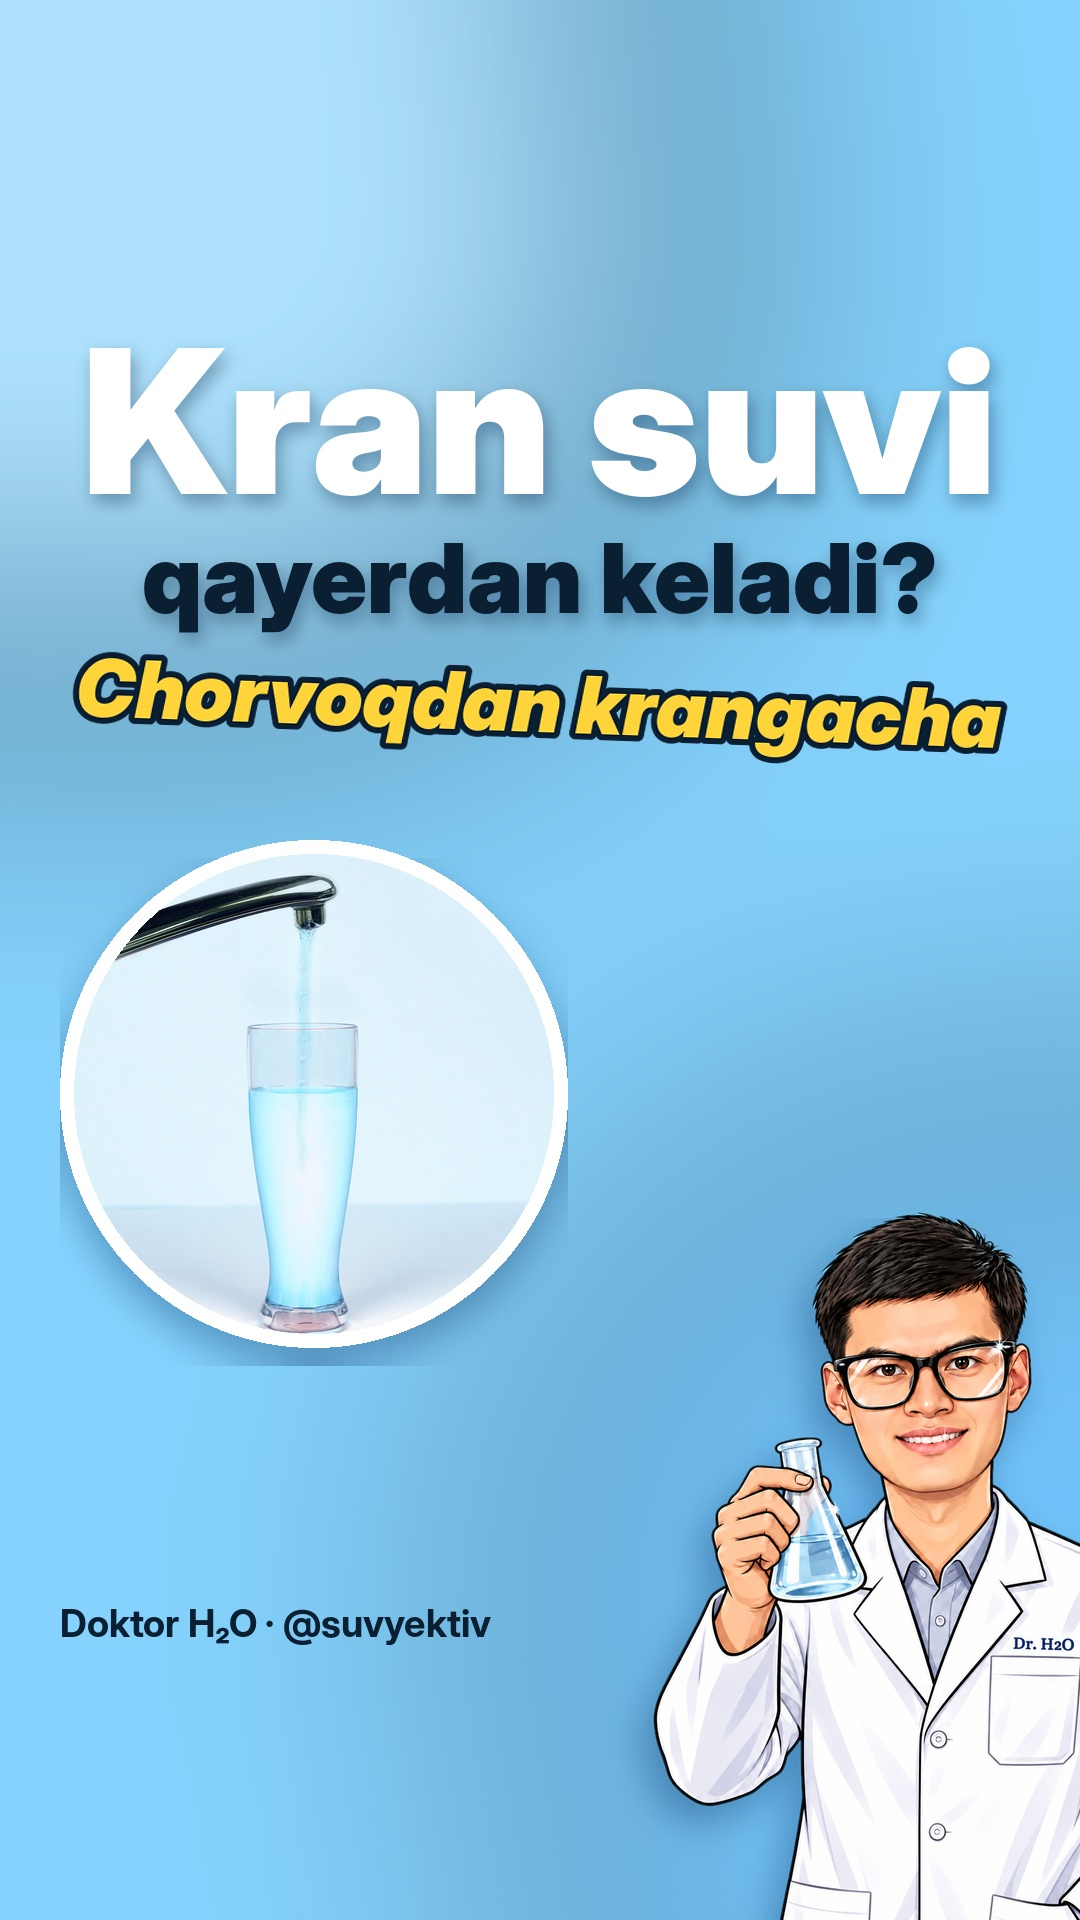
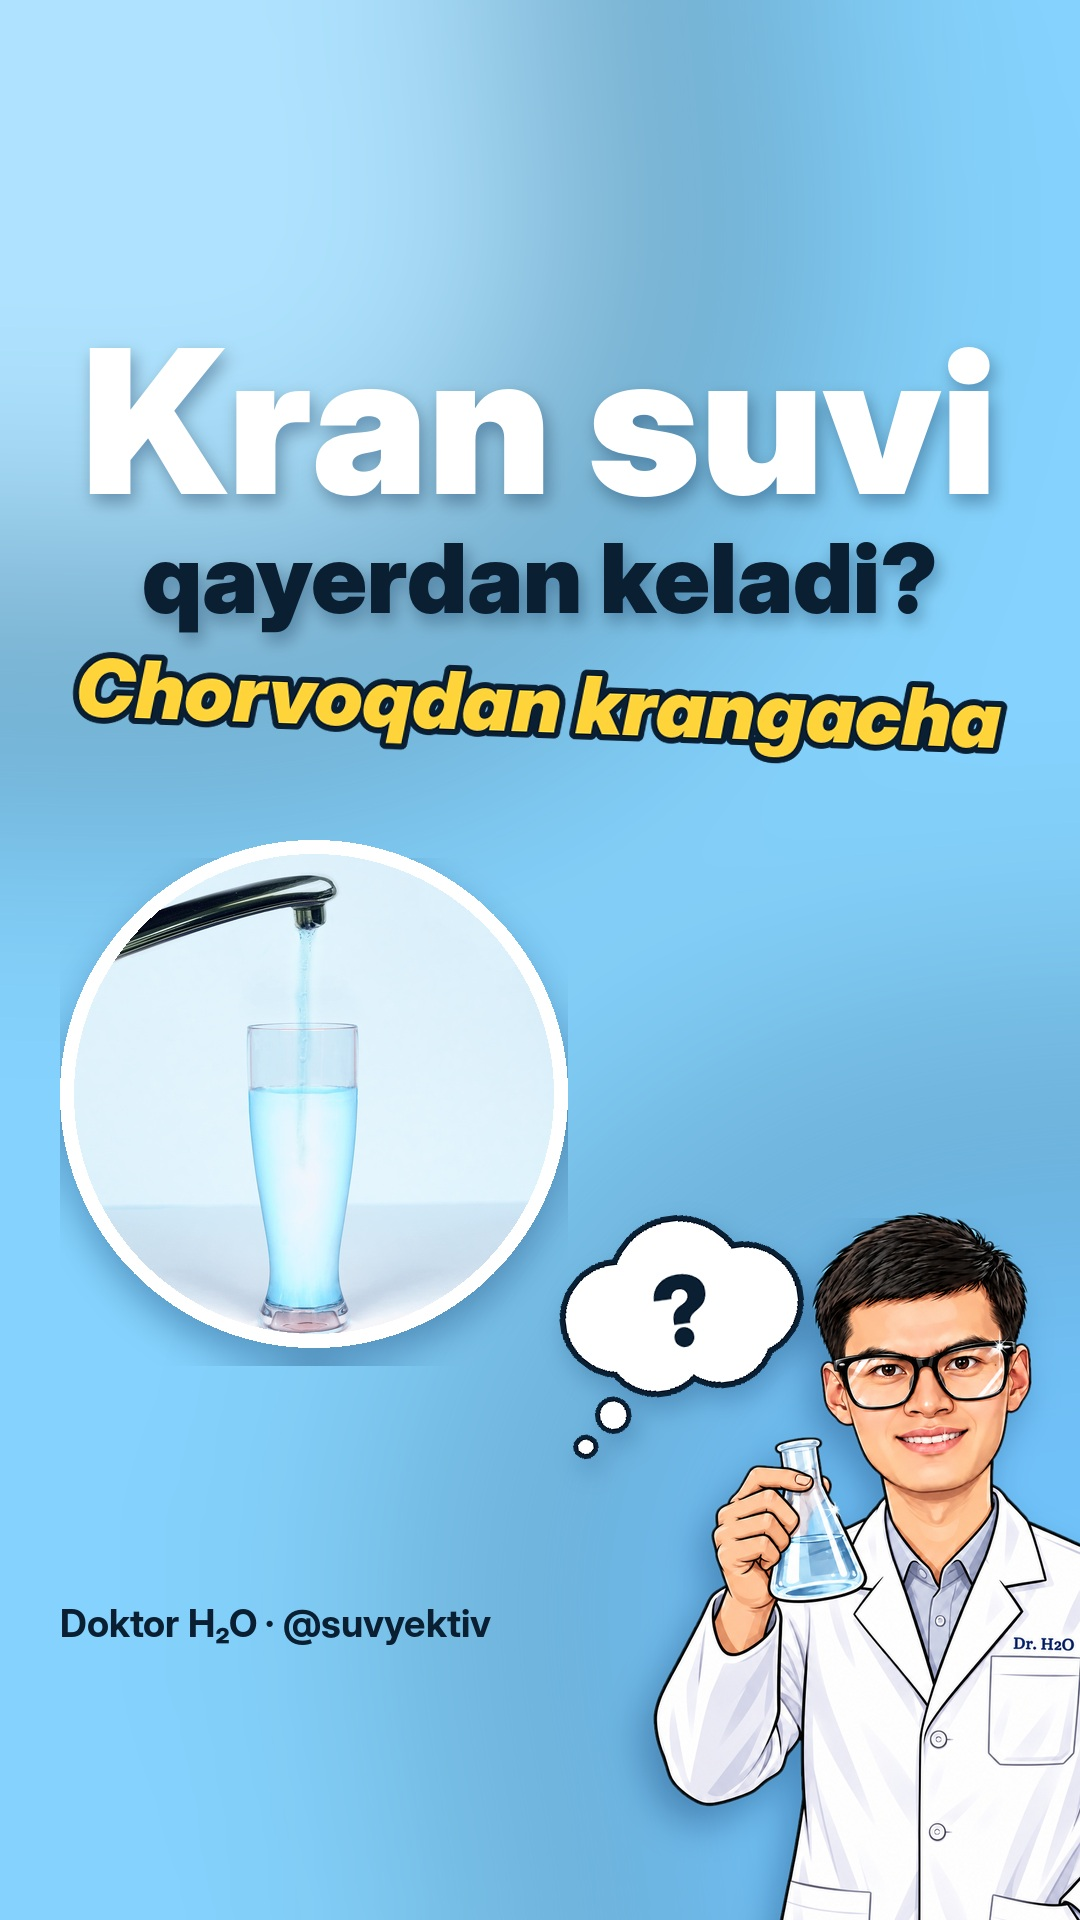
Upcoming covers: thinking / amazed / puzzled moods next to the mascot
Claude-Session: https://claude.ai/code/session_011HDZ5Uv6NChoVbnSnix7oL

Changed region(s): [[0.5194, 0.625, 0.7639, 0.75], [0.5194, 0.75, 0.55, 0.7812]]

diff --git a/tools/covers/next_covers.py b/tools/covers/next_covers.py
@@ -54,6 +54,44 @@ def card(path, w, h, angle=-3, b=14):
 def handle(im, x, y, anchor="la"):
     text(im, x, y, "Doktor H₂O · @suvyektiv", fn("Bold", 38), NAVY, anchor, shadow=False)
 
+
+RED = (235, 72, 72)
+def emote(im, kind, m, mx, my, dy=.45):
+    """Mood next to the mascot's head: think (thought cloud + ?), wow (burst + ! + sparkles), huh (bubble + ?!)."""
+    hx0, hx1, hy0, hy1 = mx + .34 * m.width, mx + .63 * m.width, my + .02 * m.height, my + .30 * m.height
+    right = (hx0 + hx1) / 2 < W / 2            # mascot on the left -> mood goes to its right
+    s = int(m.height * .26); lay = Image.new("RGBA", (int(s * 1.6), int(s * 1.5))); d = ImageDraw.Draw(lay)
+    cx, cy = lay.width / 2, lay.height * .42
+    if kind == "think":
+        for dx, dy, r in [(-.32, .02, .30), (0, -.1, .36), (.32, .02, .30), (-.15, .16, .28), (.18, .16, .28)]:
+            d.ellipse([cx + dx * s - r * s, cy + dy * s - r * s, cx + dx * s + r * s, cy + dy * s + r * s], fill=WHITE + (255,), outline=NAVY + (255,), width=6)
+        for dx, dy, r in [(-.32, .02, .30), (0, -.1, .36), (.32, .02, .30), (-.15, .16, .28), (.18, .16, .28)]:
+            d.ellipse([cx + dx * s - r * s + 6, cy + dy * s - r * s + 6, cx + dx * s + r * s - 6, cy + dy * s + r * s - 6], fill=WHITE + (255,))
+        d.text((cx, cy + s * .02), "?", font=fn("Black", int(s * .5)), fill=NAVY + (255,), anchor="mm")
+        tx = -1 if right else 1                # little trailing bubbles toward the head
+        for k, r in enumerate([.09, .06]):
+            x0 = cx - tx * s * (.42 + .16 * k); y0 = cy + s * (.5 + .14 * k)
+            d.ellipse([x0 - r * s, y0 - r * s, x0 + r * s, y0 + r * s], fill=WHITE + (255,), outline=NAVY + (255,), width=5)
+    elif kind == "wow":
+        import math
+        pts = [(cx + (s * (.55 if i % 2 == 0 else .36)) * math.cos(math.pi * i / 8), cy + (s * (.55 if i % 2 == 0 else .36)) * math.sin(math.pi * i / 8)) for i in range(16)]
+        d.polygon(pts, fill=YEL + (255,), outline=NAVY + (255,), width=6)
+        d.text((cx, cy), "!", font=fn("Black", int(s * .6)), fill=NAVY + (255,), anchor="mm")
+        for dx, dy, r in [(.72, -.45, .09), (-.7, -.3, .07), (.6, .5, .06)]:
+            x0, y0 = cx + dx * s, cy + dy * s
+            d.polygon([(x0, y0 - r * s * 2), (x0 + r * s * .5, y0 - r * s * .5), (x0 + r * s * 2, y0), (x0 + r * s * .5, y0 + r * s * .5), (x0, y0 + r * s * 2), (x0 - r * s * .5, y0 + r * s * .5), (x0 - r * s * 2, y0), (x0 - r * s * .5, y0 - r * s * .5)], fill=WHITE + (255,))
+    elif kind == "huh":
+        tx = -1 if right else 1
+        d.polygon([(cx - tx * s * .28, cy + s * .2), (cx - tx * s * .5, cy + s * .62), (cx - tx * s * .02, cy + s * .2)], fill=WHITE + (255,), outline=NAVY + (255,), width=6)
+        d.rounded_rectangle([cx - s * .55, cy - s * .38, cx + s * .55, cy + s * .34], s * .2, fill=WHITE + (255,), outline=NAVY + (255,), width=6)
+        d.polygon([(cx - tx * s * .27, cy + s * .3), (cx - tx * s * .04, cy + s * .3), (cx - tx * s * .2, cy + s * .4)], fill=WHITE + (255,))
+        d.text((cx - s * .14, cy - s * .02), "?", font=fn("Black", int(s * .5)), fill=NAVY + (255,), anchor="mm")
+        d.text((cx + s * .18, cy - s * .02), "!", font=fn("Black", int(s * .5)), fill=RED + (255,), anchor="mm")
+    lay = lay.rotate(-8 if right else 8, resample=Image.BICUBIC, expand=True)
+    x = int(hx1 - lay.width * .15) if right else int(hx0 - lay.width * .85)
+    y = int(hy0 - lay.height * dy)
+    shadow_paste(im, lay, x, y, k=.25, blur=12, off=(6, 12))
+
 def save(im, slug): im.convert("RGB").save(f"{OUT}/cover_{slug}.jpg", quality=94); print(slug)
 
 # 1) 24.10 suv sarfi — BIG NUMBER, mascot bottom-LEFT, photo bottom-right
@@ -61,17 +99,17 @@ im = base()
 text(im, 60, 280, "Suv sarfi bo'yicha", fn("Black", 96), NAVY)
 text(im, 40, 380, "4-o'rin", fit("4-o'rin", 1000, 300), WHITE)
 tilt(im, "O'zbekiston dunyoda", 50, 720, 96, angle=3)
-c = card(f"{PH}/big_suv-sarfi.jpg", 500, 380, angle=4); shadow_paste(im, c, W - c.width - 20, 930)
-m = mascot(900); shadow_paste(im, m, -230, H - m.height + 60)
+c = card(f"{PH}/big_suv-sarfi.jpg", 500, 380, angle=4); shadow_paste(im, c, W - c.width - 20, 1120)
+m = mascot(900); mx, my = -230, H - m.height + 60; shadow_paste(im, m, mx, my); emote(im, "wow", m, mx, my)
 handle(im, W - 60, 1600, "ra"); save(im, "suv-sarfi")
 
 # 2) 27.10 2050 — FULL-WIDTH photo band on top, text under it, mascot bottom-RIGHT
 im = base()
-c = card(f"{PH}/big_2050.jpg", 1000, 430, angle=0); shadow_paste(im, c, 26, 250)
-text(im, 60, 770, "2050 yilga kelib", fn("Black", 96), NAVY)
-text(im, 52, 880, "5 barobar", fit("5 barobar", 960, 210), WHITE)
-tilt(im, "suv taqchilligi", 50, 1110, 100, angle=-3)
-m = mascot(820); shadow_paste(im, m, W - m.width + 230, H - m.height + 40)
+c = card(f"{PH}/big_2050.jpg", 1000, 380, angle=0); shadow_paste(im, c, 26, 250)
+text(im, 60, 700, "2050 yilga kelib", fn("Black", 96), NAVY)
+text(im, 52, 805, "5 barobar", fit("5 barobar", 960, 210), WHITE)
+tilt(im, "suv taqchilligi", 50, 1030, 100, angle=-3)
+m = mascot(760); mx, my = W - m.width + 230, H - m.height + 40; shadow_paste(im, m, mx, my); emote(im, "huh", m, mx, my, dy=.05)
 handle(im, 60, 1600); save(im, "2050")
 
 # 3) 29.10 Salar — mascot LEFT big, text RIGHT-aligned, photo tilted under text
@@ -82,7 +120,7 @@ f3 = fit("Nega?", 900, 100, "BlackItalic")
 l = Image.new("RGBA", (1000, 200)); ImageDraw.Draw(l).text((20, 20), "Nega?", font=f3, fill=YEL + (255,), stroke_width=6, stroke_fill=NAVY + (255,))
 l = l.crop(l.getbbox()).rotate(-3, resample=Image.BICUBIC, expand=True); im.alpha_composite(l, (W - 50 - l.width, 610))
 c = card(f"{PH}/big_salar.jpg", 560, 400, angle=4); shadow_paste(im, c, W - c.width - 30, 820)
-m = mascot(1000, flip=False); shadow_paste(im, m, -250, H - m.height + 60)
+m = mascot(1000, flip=False); mx, my = -250, H - m.height + 60; shadow_paste(im, m, mx, my); emote(im, "think", m, mx, my)
 handle(im, W - 60, 1600, "ra"); save(im, "salar")
 
 # 4) 03.11 kran suvi — CENTRED text, round photo in the middle, small mascot bottom-centre
@@ -95,7 +133,7 @@ circ = Image.new("RGBA", (d + 28, d + 28)); ImageDraw.Draw(circ).ellipse([0, 0, 
 mk = Image.new("L", (d, d), 0); ImageDraw.Draw(mk).ellipse([0, 0, d - 1, d - 1], fill=255); circ.paste(ph, (14, 14), mk)
 tilt(im, "Chorvoqdan krangacha", W // 2, 640, 84, angle=-2, anchor_center=True)
 shadow_paste(im, circ, 60, 840, off=(0, 18))
-m = mascot(760); shadow_paste(im, m, W - m.width + 230, H - m.height + 40)
+m = mascot(760); mx, my = W - m.width + 230, H - m.height + 40; shadow_paste(im, m, mx, my); emote(im, "think", m, mx, my)
 handle(im, 60, 1600); save(im, "kran")
 
 # 5) 05.11 layfhak — photo LEFT tall card, big counter on the right, mascot bottom-right small
@@ -104,7 +142,7 @@ text(im, 60, 270, "5 ta odat bilan", fn("Black", 96), NAVY)
 text(im, 52, 380, "26 000 litr", fit("26 000 litr", 980, 190), WHITE)
 tilt(im, "yiliga tejaysiz", 50, 590, 100, angle=3)
 c = card(f"{PH}/big_layfhak.jpg", 420, 560, angle=-4); shadow_paste(im, c, 40, 800)
-m = mascot(900); shadow_paste(im, m, W - m.width + 260, H - m.height + 60)
+m = mascot(900); mx, my = W - m.width + 260, H - m.height + 60; shadow_paste(im, m, mx, my); emote(im, "wow", m, mx, my, dy=.15)
 handle(im, 60, 1600); save(im, "layfhak")
 
 # 6) 07.11 butilka — photo band TOP, number HUGE centre, mascot bottom-LEFT (flipped)
@@ -115,5 +153,5 @@ text(im, W - 50, 800, "240 000", fit("240 000", 980, 230), WHITE, "ra")
 f3 = fit("plastik zarra", 900, 104, "BlackItalic")
 l = Image.new("RGBA", (1000, 200)); ImageDraw.Draw(l).text((20, 20), "plastik zarra", font=f3, fill=YEL + (255,), stroke_width=6, stroke_fill=NAVY + (255,))
 l = l.crop(l.getbbox()).rotate(3, resample=Image.BICUBIC, expand=True); im.alpha_composite(l, (W - 50 - l.width, 1060))
-m = mascot(860, flip=False); shadow_paste(im, m, -200, H - m.height + 50)
+m = mascot(860, flip=False); mx, my = -200, H - m.height + 50; shadow_paste(im, m, mx, my); emote(im, "huh", m, mx, my, dy=-.05)
 handle(im, W - 60, 1600, "ra"); save(im, "butilka")
